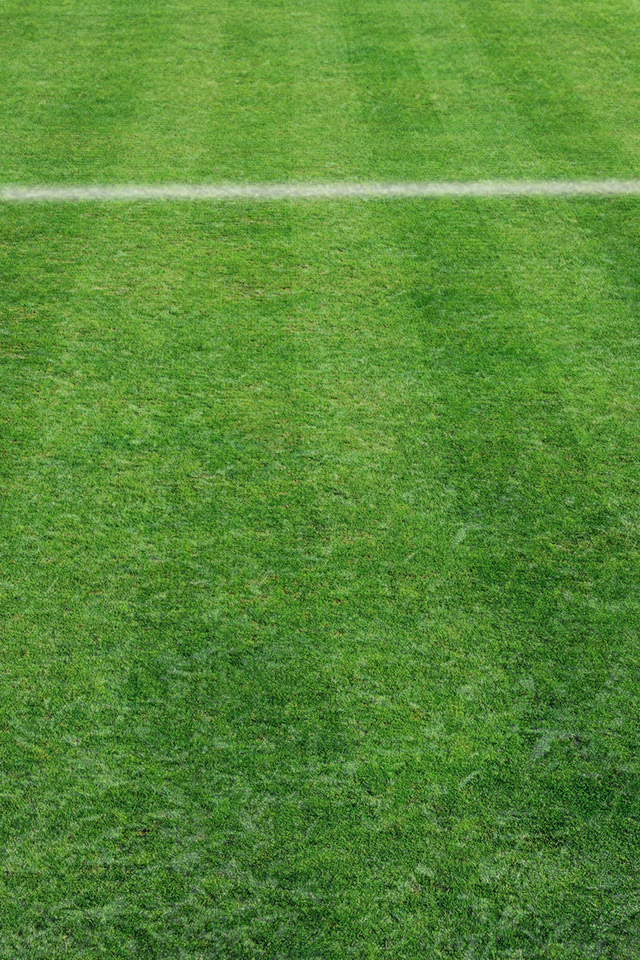
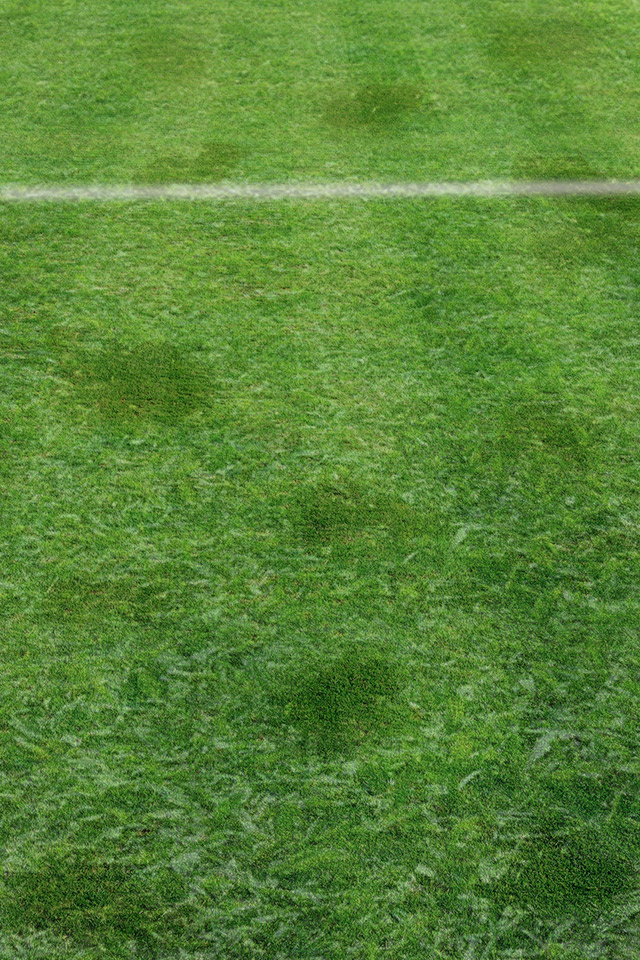
new background and some possible fixes to extra zombie bug

diff --git a/GameEngine.Web/Assets/js/zombies.js b/GameEngine.Web/Assets/js/zombies.js
@@ -71,8 +71,13 @@ var Zombie = {
             'z-index': parseInt(this.zIndex + 10)
         });
     },
-    destroyZombie: function() {
-        $(this.query).remove();
+    destroyZombie: function () {
+        $(this.query).attr('class', 'zombie bones ' + 'zombie' + this.id);
+        $(this.query).addClass('bones');
+        $(this.query).fadeOut(1500, function () {
+            $(this).remove();
+        });
+        
         this.status = 'dead';
     },
     checkHit: function() {
@@ -94,6 +99,8 @@ var Zombie = {
 
 function createZombies() {
     if (noOfZombies < maxNumberOfZombies) {
+        noOfZombies++;
+
         var numberOfZombies = noOfZombies;
         var zombieTemp = Object.create(Zombie);
         zombieTemp.id = numberOfZombies;
@@ -144,7 +151,7 @@ function createZombies() {
 
         zombies.push(zombieTemp);
         $('.inner').append('<div class="zombie zombie' + zombieTemp.id + ' ' + posClass[zombieTemp.pos] + '"><div class="jerseyName">' + zombiePlayers[zombiePlayerIndex][1] + '</div><div class="jerseyNumber">' + zombiePlayers[zombiePlayerIndex][0] + '</div></div>');
-        noOfZombies++;
+        
     }
 }
 

diff --git a/GameEngine.Web/Assets/css/style.css b/GameEngine.Web/Assets/css/style.css
@@ -119,6 +119,16 @@
     background-position: 0px 0px;
 }
 
+.bones {
+    position: absolute;
+    background-image: url(../images/bones.png);
+    background-repeat: no-repeat;
+    background-size: contain;
+    width: 100px;
+    height: 100px;
+    margin-top: 100px
+}
+
 .jerseyName {
     position: absolute;
     top: 5px;

diff --git a/GameEngine.Web/Assets/js/gameScript.js b/GameEngine.Web/Assets/js/gameScript.js
@@ -192,8 +192,8 @@ function mainLoop() {
     player.slidePlayer();
     
     if (timeTakenToSpawn >= timeToNextSpawn) {
-        createZombies();
         timeTakenToSpawn = 0;
+        createZombies();
         if (timeToNextSpawn > 15) {
             timeToNextSpawn -= 0.5;
         }
